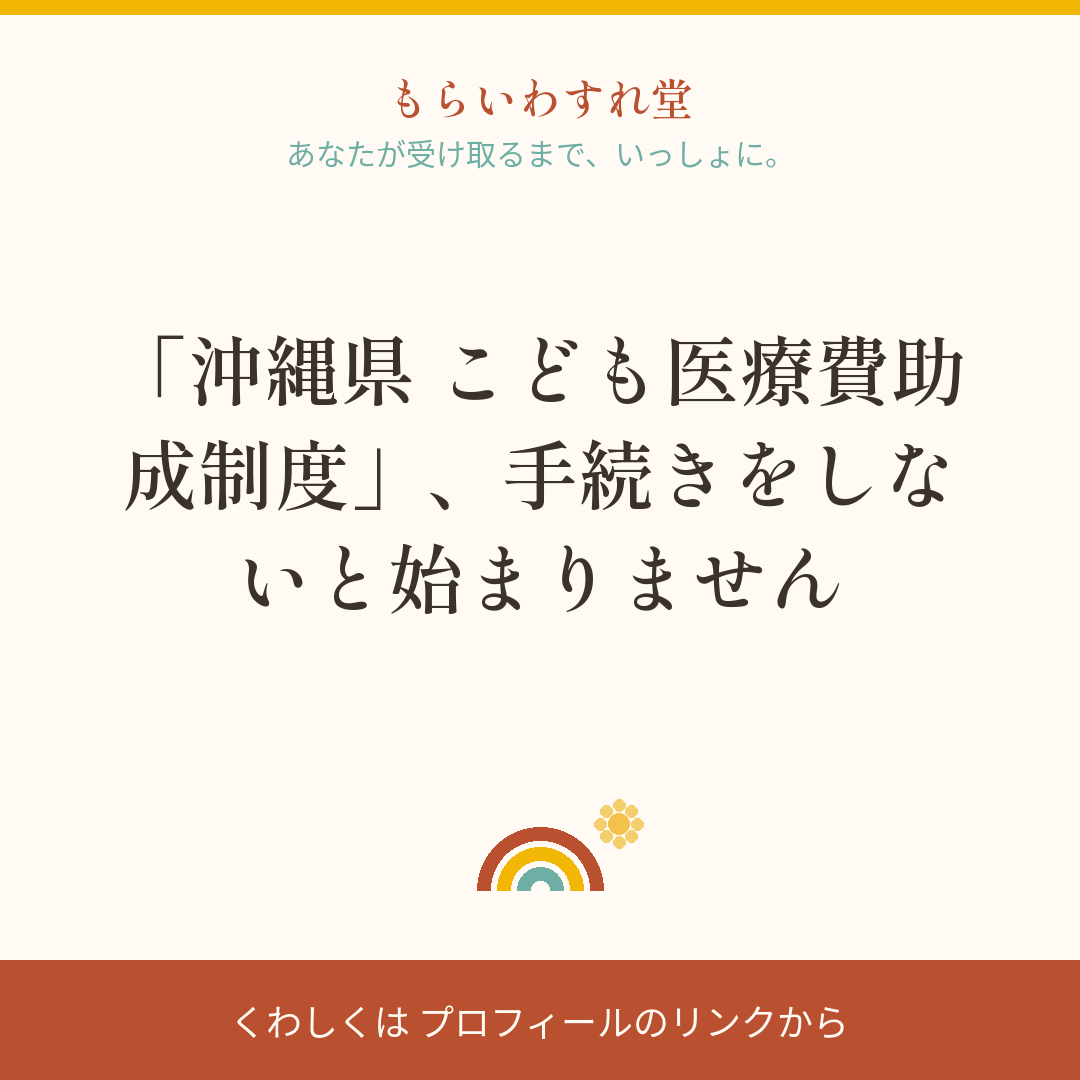
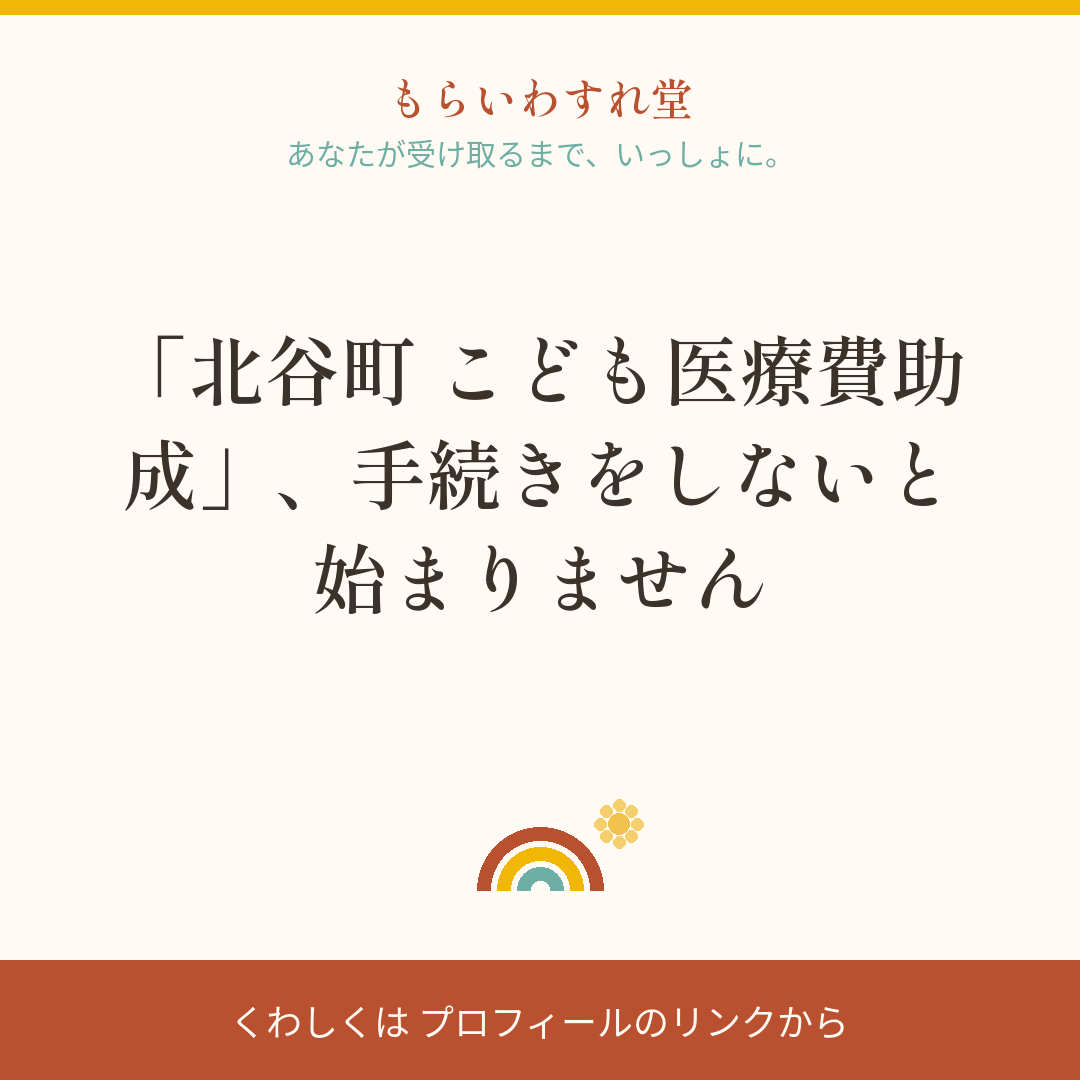
auto: もらいわすれ堂 週次レポート 2026-11-04

Changed region(s): [[0.1833, 0.3056, 0.8861, 0.5806], [0.5194, 0.4889, 0.55, 0.5806]]

diff --git a/site/staff/haruka/index.html b/site/staff/haruka/index.html
@@ -36,7 +36,7 @@ h2{font-size:1.02rem;margin-bottom:10px;line-height:1.5}
 <body>
 <div class="wrap">
 <h1>🌈 今週のIG投稿案(2026-W45)</h1>
-<p class="sub">更新: 2026-11-02 / 毎週月曜に自動更新 / このページは検索に載らない内部ページです</p>
+<p class="sub">更新: 2026-11-04 / 毎週月曜に自動更新 / このページは検索に載らない内部ページです</p>
 <div class="howto"><strong>遥さんの3分ルーティン(投稿画像も完成品です)</strong><br>
 ① 画像を長押しで保存 → ② 「キャプションをコピー」→ ③ Instagramに投稿(画像+キャプション貼り付け)<br>
 ④ 投稿したら、<b>投稿案メールに返信</b>で「案1 投稿した」と一言(使わない案は「案4 なし」)<br><span style="color:#B9502F">※LINEはこちらから送る専用で、返信を受け取れません</span><br>
@@ -45,29 +45,16 @@ h2{font-size:1.02rem;margin-bottom:10px;line-height:1.5}
 
 <div class="card">
   <div class="no">案1</div>
-  <h2>「沖縄県 こども医療費助成制度」、手続きをしないと始まりません</h2>
+  <h2>「北谷町 こども医療費助成」、手続きをしないと始まりません</h2>
   <img class="igimg" src="img/ig1.png" alt="投稿画像 案1">
   <p class="hint">🖼 画像はこのまま使えます: 長押し(PCは右クリック)→保存→Instagramへ</p>
-  <div class="facts ok"><b>✅ 原文と照合ずみです(2026-07-28時点)</b><p>ここに書いてある範囲は、こちらで公式ページと突き合わせています。改めて読み直さずに使っていただいて大丈夫です。<br>ただし<b>「要確認」と書いてある項目だけは断定しないでください</b>(制度はあるが、金額や条件までは詰め切れていない、という意味です)。</p><dl><dt>制度名</dt><dd>沖縄県 こども医療費助成制度</dd><dt>どこの制度か</dt><dd>沖縄県</dd><dt>だれが対象か</dt><dd>県内にお住まいで対象年齢のお子さんがいる世帯が対象となる可能性があります(実施は市町村)</dd><dt>いくら</dt><dd>要確認(公式ページでご確認ください)</dd><dt>どこへ申し込むか</dt><dd>お住まいの市町村の窓口</dd><dt>いつまで</dt><dd>常時</dd></dl></div>
-  <div class="cap" id="cap1">子育て中のご家庭に、知らないままの方が多い制度です。「沖縄県 こども医療費助成制度」。県内にお住まいで対象年齢のお子さんがいる世帯が対象となる可能性があります(実施は市町村)。申し込みの窓口はお住まいの市町村の窓口。金額や細かい条件は年度で変わることがあるので、このページでご確認ください。「うちは対象かな?」と思ったら、まず公式ページを見てみてください。
+  <div class="facts ok"><b>✅ 原文と照合ずみです(2026-08-06時点)</b><p>ここに書いてある範囲は、こちらで公式ページと突き合わせています。改めて読み直さずに使っていただいて大丈夫です。<br>ただし<b>「要確認」と書いてある項目だけは断定しないでください</b>(制度はあるが、金額や条件までは詰め切れていない、という意味です)。</p><dl><dt>制度名</dt><dd>北谷町 こども医療費助成</dd><dt>どこの制度か</dt><dd>北谷町</dd><dt>だれが対象か</dt><dd>北谷町に住み健康保険に加入している18歳(高校生世代)までのお子さんがいる世帯が対象となる可能性があります(令和4年10月〜拡大)</dd><dt>いくら</dt><dd>0歳〜18歳(年度末)までの医療費(保険診療分)を窓口無料(現物給付)で助成(令和4年10月〜。要確認)</dd><dt>どこへ申し込むか</dt><dd>北谷町 健康相談センターの窓口</dd><dt>いつまで</dt><dd>常時</dd></dl></div>
+  <div class="cap" id="cap1">子育て中のご家庭に、知らないままの方が多い制度です。「北谷町 こども医療費助成」。北谷町に住み健康保険に加入している18歳(高校生世代)までのお子さんがいる世帯が対象となる可能性があります(令和4年10月〜拡大)。申し込みの窓口は北谷町 健康相談センターの窓口。金額や細かい条件は年度で変わることがあるので、このページでご確認ください。「うちは対象かな?」と思ったら、まず公式ページを見てみてください。
 
-#もらいわすれ堂 #沖縄 #子育て #沖縄県こども医療費助成制度</div>
+#もらいわすれ堂 #北谷町 #子育て #医療費 #北谷町こども医療費助成</div>
   <button class="copy" data-t="cap1">キャプションをコピー</button>
-  <p class="caution">⚠ 投稿前の注意: 金額・期限・対象条件は本文に書かない(照合日 2026-07-28 時点の記録に基づく案のため)。「対象になることがあります」の言い方を崩さない。制度ID fk-ken-kodomo-iryohi<br>
-  出典: <a href="https://www.pref.okinawa.lg.jp/iryokenko/iryo/1005869/1005890.html" rel="noopener" target="_blank">公式ページを開く</a></p>
-</div>
-<div class="card">
-  <div class="no">案2</div>
-  <h2>「宜野座村 給食費無償化」、使っていますか?</h2>
-  <img class="igimg" src="img/ig2.png" alt="投稿画像 案2">
-  <p class="hint">🖼 画像はこのまま使えます: 長押し(PCは右クリック)→保存→Instagramへ</p>
-  <div class="facts ok"><b>✅ 原文と照合ずみです(2026-08-06時点)</b><p>ここに書いてある範囲は、こちらで公式ページと突き合わせています。改めて読み直さずに使っていただいて大丈夫です。<br>ただし<b>「要確認」と書いてある項目だけは断定しないでください</b>(制度はあるが、金額や条件までは詰め切れていない、という意味です)。</p><dl><dt>制度名</dt><dd>宜野座村 給食費無償化</dd><dt>どこの制度か</dt><dd>宜野座村</dd><dt>だれが対象か</dt><dd>村立の幼稚園・小学校・中学校に通う園児・児童・生徒のご家庭が対象となる可能性があります。</dd><dt>いくら</dt><dd>村立幼稚園・小・中学校の給食費を無償化(令和4年度〜継続)。保育所(園)は主食費のみ補助で副食費等は保護者負担が残る場合があります(要確認)</dd><dt>どこへ申し込むか</dt><dd>宜野座村教育委員会窓口</dd><dt>いつまで</dt><dd>年度内</dd></dl></div>
-  <div class="cap" id="cap2">進学や入園のタイミングで使える制度です。「宜野座村 給食費無償化」。村立の幼稚園・小学校・中学校に通う園児・児童・生徒のご家庭が対象になることがあります。申し込みの窓口は宜野座村教育委員会窓口。金額や細かい条件は年度で変わることがあるので、このページでご確認ください。「うちは対象かな?」と思ったら、まず公式ページを見てみてください。
-
-#もらいわすれ堂 #宜野座村 #入園入学 #子育て #宜野座村給食費無償化</div>
-  <button class="copy" data-t="cap2">キャプションをコピー</button>
-  <p class="caution">⚠ 投稿前の注意: 金額・期限・対象条件は本文に書かない(照合日 2026-08-06 時点の記録に基づく案のため)。「対象になることがあります」の言い方を崩さない。制度ID fk-ginoza-kyushoku<br>
-  出典: <a href="https://www.vill.ginoza.okinawa.jp/soshiki/1009/oshirase/1257.html" rel="noopener" target="_blank">公式ページを開く</a></p>
+  <p class="caution">⚠ 投稿前の注意: 金額・期限・対象条件は本文に書かない(照合日 2026-08-06 時点の記録に基づく案のため)。「対象になることがあります」の言い方を崩さない。制度ID fk-chatan-kodomo-iryo<br>
+  出典: <a href="https://www.chatan.jp/kosodate/kosodate/teate_support/kodomoiryogenbutsu.html" rel="noopener" target="_blank">公式ページを開く</a></p>
 </div>
 <p class="sub">投稿の最終判断は遥さん・小柳さんにお任せします(ここは提案まで)。文面の相談はチャットへいつでもどうぞ。</p>
 </div>

diff --git a/reports/fukugiiro/2026-W45_weekly.md b/reports/fukugiiro/2026-W45_weekly.md
@@ -1,6 +1,6 @@
 # もらいわすれ堂 週次レポート 2026-W45
 
-生成: 2026-11-02 11:59 JST(統括ユイさん・自動生成 / 達成くんフォーマット準拠)
+生成: 2026-11-04 12:26 JST(統括ユイさん・自動生成 / 達成くんフォーマット準拠)
 北極星: **実受給額カウンター**。登録・PVが伸びても、この数字が動かなければ「進んでいない」。
 
 ---
@@ -19,7 +19,7 @@
 
 | 北極星 | 現在地 | 12ヶ月目標 | 必要ペース(週) |
 |---|---|---|---|
-| ❶ サイト訪問 | **2026-11 月3人**(KGIの0.0% / 2026-11-02まで途中集計)/ 直近7日 9人 | 月10,000人 | 約2,308人 |
+| ❶ サイト訪問 | **2026-11 月6人**(KGIの0.1% / 2026-11-04まで途中集計)/ 直近7日 11人 | 月10,000人 | 約2,308人 |
 | ❷ 受給報告 | 0世帯(検証済みのみ) | 1,000件 | 約19件 |
 | ❸ IGフォロワー | 0人(2026-09-21時点) | 1,000人 | 約20人 |
 | ❹ LINE友だち | 計測経路なし(LINE公式のトークン共有待ち。data/kpi/line_followers.json はミカタ用で別物) | 10,000人 | 約192人 |
@@ -35,23 +35,23 @@
 
 ## 2. ファネル(自動取得 — GA4 Data API / 直近7d)
 
-更新: 2026-11-02。集計値のみ(個人識別子なし)。
+更新: 2026-11-04。集計値のみ(個人識別子なし)。
 
 | 段 | 件数 | 前段比 | 離脱率 |
 |---|---|---|---|
-| 診断開始 | 11 | — | — |
-| Q2到達 | 6 | 55% | 45% |
-| Q3到達 | 4 | 67% | 33% |
+| 診断開始 | 13 | — | — |
+| Q2到達 | 5 | 38% | 62% |
+| Q3到達 | 4 | 80% | 20% |
 | Q4到達 | 5 | 125% | -25% |
 | Q5到達 | 5 | 100% | 0% |
-| 診断完了(1件以上) | 3 | 60% | 40% |
-| LINE誘導クリック | 1 | 33% | 67% |
+| 診断完了(1件以上) | 5 | 100% | 0% |
+| LINE誘導クリック | 2 | 40% | 60% |
 
-**最大離脱**: 診断完了(1件以上)→LINE誘導クリック(−67%)← 今週ここが一番落ちている傾向。
+**最大離脱**: 診断開始→Q2到達(−62%)← 今週ここが一番落ちている傾向。
 
-⚠ 診断完了 n=3(<30)のため、転換率の増減で施策効果を断定しない(n≥30到達まで判断保留 — 2026-08-10 三名体制裁定)。
+⚠ 診断完了 n=5(<30)のため、転換率の増減で施策効果を断定しない(n≥30到達まで判断保留 — 2026-08-10 三名体制裁定)。
 
-**診断完了→LINE誘導**: 33%(KPI 30%) / **完了率**: 27% / **0件率**: 0%
+**診断完了→LINE誘導**: 40%(KPI 30%) / **完了率**: 38% / **0件率**: 0%
 
 補助: IGプロフィール→診断 0 / トップの診断CTA 11 / 準備シート 0 / 受給ずみ 0 / 報告ページへ 0(内訳 top0/診断0/シート0/市町村0/ライフ0) / 報告の送信 0 / 0件 0
 
@@ -61,8 +61,8 @@
 |---|---|---|---|
 | 掲載制度数 | 258 件 | 常時150件以上 | ✅ |
 | 検証済み | 111 件(43%) | 誤情報ゼロ | 要確認 147件 |
-| 原文の裏取り | 5 件が内容未確認 | 検証済み表示は全件が原文確認済み | ⚠ 検証済み表示のまま内容を確認できず(2026-11-02 09:13 時点)。docs/フクギイロ_突合レポート.md の要対応欄 |
-| データ鮮度 | 2026-11-02 09:04 | 24時間以内 | ✅ 24時間以内 |
+| 原文の裏取り | 5 件が内容未確認 | 検証済み表示は全件が原文確認済み | ⚠ 検証済み表示のまま内容を確認できず(2026-11-04 10:30 時点)。docs/フクギイロ_突合レポート.md の要対応欄 |
+| データ鮮度 | 2026-11-04 10:21 | 24時間以内 | ✅ 24時間以内 |
 | 自己点検 | 新規NG 0 件 / 既知の負債 0 件 | 新規の違反ゼロ | ✅ 新規の違反なし |
 | 市町村ページ | 41 ページ | 41市町村 | ✅ |
 | 申請準備シート | 258 ページ | 全制度 | ✅ |
@@ -73,16 +73,18 @@
 
 - IGフォロワー数が自動取得できていません(MORADOU_IG_TOKEN 未登録)。プロアカウントならFacebookページ連携は不要です
 - IGフォロワーが0人のままです(2026-09-21時点)。まず関係者にフォローしてもらい、0を抜けてください
-- 議事_20260731_直近決定の三名検証.md の見直し期限(2026-10-31)が2日過ぎています。再議論してください
-- 議事_20260804_相談転換の設計.md の見直し期限まであと2日(2026-11-04)
-- 議事_20260810_北極星ボトルネック裁定.md の見直し期限(2026-09-07)が56日過ぎています。再議論してください
-- 議事_20260817_verify照合判定基準.md の見直し期限まであと4日(2026-11-06)
-- 議事_20260818_沖縄市うるま市一時非公開.md の見直し期限(2026-09-01)が62日過ぎています。再議論してください
-- 議事_20260823_X体験共有解禁と運営実録.md の見直し期限(2026-09-30)が33日過ぎています。再議論してください
-- 議事_20260921_見直し期限切れ6件の再議論.md の見直し期限(2026-09-21)が42日過ぎています。再議論してください
-- 議事_20261004_スキル改善プロジェクト開始.md の見直し期限まであと4日(2026-11-06)
-- 議事_airecipe監査_2026-08-17.md の見直し期限まであと7日(2026-11-09)
-- 議事_note新路線_うごくAIレシピ_2026-08-09.md の見直し期限まであと7日(2026-11-09)
+- 議事_20260731_直近決定の三名検証.md の見直し期限(2026-10-31)が4日過ぎています。再議論してください
+- 議事_20260804_相談転換の設計.md の見直し期限まであと0日(2026-11-04)
+- 議事_20260810_北極星ボトルネック裁定.md の見直し期限(2026-09-07)が58日過ぎています。再議論してください
+- 議事_20260817_verify照合判定基準.md の見直し期限まであと2日(2026-11-06)
+- 議事_20260817_出荷ゲート通過記録.md の見直し期限まであと13日(2026-11-17)
+- 議事_20260818_沖縄市うるま市一時非公開.md の見直し期限(2026-09-01)が64日過ぎています。再議論してください
+- 議事_20260818_開拓効率化アイデア出し.md の見直し期限まであと14日(2026-11-18)
+- 議事_20260823_X体験共有解禁と運営実録.md の見直し期限(2026-09-30)が35日過ぎています。再議論してください
+- 議事_20260921_見直し期限切れ6件の再議論.md の見直し期限(2026-09-21)が44日過ぎています。再議論してください
+- 議事_20261004_スキル改善プロジェクト開始.md の見直し期限まであと2日(2026-11-06)
+- 議事_airecipe監査_2026-08-17.md の見直し期限まであと5日(2026-11-09)
+- 議事_note新路線_うごくAIレシピ_2026-08-09.md の見直し期限まであと5日(2026-11-09)
 
 ## 4. 品質・統制(ニドナシ機構 / eval)
 

diff --git a/reports/fukugiiro/latest.md b/reports/fukugiiro/latest.md
@@ -1,6 +1,6 @@
 # もらいわすれ堂 週次レポート 2026-W45
 
-生成: 2026-11-02 11:59 JST(統括ユイさん・自動生成 / 達成くんフォーマット準拠)
+生成: 2026-11-04 12:26 JST(統括ユイさん・自動生成 / 達成くんフォーマット準拠)
 北極星: **実受給額カウンター**。登録・PVが伸びても、この数字が動かなければ「進んでいない」。
 
 ---
@@ -19,7 +19,7 @@
 
 | 北極星 | 現在地 | 12ヶ月目標 | 必要ペース(週) |
 |---|---|---|---|
-| ❶ サイト訪問 | **2026-11 月3人**(KGIの0.0% / 2026-11-02まで途中集計)/ 直近7日 9人 | 月10,000人 | 約2,308人 |
+| ❶ サイト訪問 | **2026-11 月6人**(KGIの0.1% / 2026-11-04まで途中集計)/ 直近7日 11人 | 月10,000人 | 約2,308人 |
 | ❷ 受給報告 | 0世帯(検証済みのみ) | 1,000件 | 約19件 |
 | ❸ IGフォロワー | 0人(2026-09-21時点) | 1,000人 | 約20人 |
 | ❹ LINE友だち | 計測経路なし(LINE公式のトークン共有待ち。data/kpi/line_followers.json はミカタ用で別物) | 10,000人 | 約192人 |
@@ -35,23 +35,23 @@
 
 ## 2. ファネル(自動取得 — GA4 Data API / 直近7d)
 
-更新: 2026-11-02。集計値のみ(個人識別子なし)。
+更新: 2026-11-04。集計値のみ(個人識別子なし)。
 
 | 段 | 件数 | 前段比 | 離脱率 |
 |---|---|---|---|
-| 診断開始 | 11 | — | — |
-| Q2到達 | 6 | 55% | 45% |
-| Q3到達 | 4 | 67% | 33% |
+| 診断開始 | 13 | — | — |
+| Q2到達 | 5 | 38% | 62% |
+| Q3到達 | 4 | 80% | 20% |
 | Q4到達 | 5 | 125% | -25% |
 | Q5到達 | 5 | 100% | 0% |
-| 診断完了(1件以上) | 3 | 60% | 40% |
-| LINE誘導クリック | 1 | 33% | 67% |
+| 診断完了(1件以上) | 5 | 100% | 0% |
+| LINE誘導クリック | 2 | 40% | 60% |
 
-**最大離脱**: 診断完了(1件以上)→LINE誘導クリック(−67%)← 今週ここが一番落ちている傾向。
+**最大離脱**: 診断開始→Q2到達(−62%)← 今週ここが一番落ちている傾向。
 
-⚠ 診断完了 n=3(<30)のため、転換率の増減で施策効果を断定しない(n≥30到達まで判断保留 — 2026-08-10 三名体制裁定)。
+⚠ 診断完了 n=5(<30)のため、転換率の増減で施策効果を断定しない(n≥30到達まで判断保留 — 2026-08-10 三名体制裁定)。
 
-**診断完了→LINE誘導**: 33%(KPI 30%) / **完了率**: 27% / **0件率**: 0%
+**診断完了→LINE誘導**: 40%(KPI 30%) / **完了率**: 38% / **0件率**: 0%
 
 補助: IGプロフィール→診断 0 / トップの診断CTA 11 / 準備シート 0 / 受給ずみ 0 / 報告ページへ 0(内訳 top0/診断0/シート0/市町村0/ライフ0) / 報告の送信 0 / 0件 0
 
@@ -61,8 +61,8 @@
 |---|---|---|---|
 | 掲載制度数 | 258 件 | 常時150件以上 | ✅ |
 | 検証済み | 111 件(43%) | 誤情報ゼロ | 要確認 147件 |
-| 原文の裏取り | 5 件が内容未確認 | 検証済み表示は全件が原文確認済み | ⚠ 検証済み表示のまま内容を確認できず(2026-11-02 09:13 時点)。docs/フクギイロ_突合レポート.md の要対応欄 |
-| データ鮮度 | 2026-11-02 09:04 | 24時間以内 | ✅ 24時間以内 |
+| 原文の裏取り | 5 件が内容未確認 | 検証済み表示は全件が原文確認済み | ⚠ 検証済み表示のまま内容を確認できず(2026-11-04 10:30 時点)。docs/フクギイロ_突合レポート.md の要対応欄 |
+| データ鮮度 | 2026-11-04 10:21 | 24時間以内 | ✅ 24時間以内 |
 | 自己点検 | 新規NG 0 件 / 既知の負債 0 件 | 新規の違反ゼロ | ✅ 新規の違反なし |
 | 市町村ページ | 41 ページ | 41市町村 | ✅ |
 | 申請準備シート | 258 ページ | 全制度 | ✅ |
@@ -73,16 +73,18 @@
 
 - IGフォロワー数が自動取得できていません(MORADOU_IG_TOKEN 未登録)。プロアカウントならFacebookページ連携は不要です
 - IGフォロワーが0人のままです(2026-09-21時点)。まず関係者にフォローしてもらい、0を抜けてください
-- 議事_20260731_直近決定の三名検証.md の見直し期限(2026-10-31)が2日過ぎています。再議論してください
-- 議事_20260804_相談転換の設計.md の見直し期限まであと2日(2026-11-04)
-- 議事_20260810_北極星ボトルネック裁定.md の見直し期限(2026-09-07)が56日過ぎています。再議論してください
-- 議事_20260817_verify照合判定基準.md の見直し期限まであと4日(2026-11-06)
-- 議事_20260818_沖縄市うるま市一時非公開.md の見直し期限(2026-09-01)が62日過ぎています。再議論してください
-- 議事_20260823_X体験共有解禁と運営実録.md の見直し期限(2026-09-30)が33日過ぎています。再議論してください
-- 議事_20260921_見直し期限切れ6件の再議論.md の見直し期限(2026-09-21)が42日過ぎています。再議論してください
-- 議事_20261004_スキル改善プロジェクト開始.md の見直し期限まであと4日(2026-11-06)
-- 議事_airecipe監査_2026-08-17.md の見直し期限まであと7日(2026-11-09)
-- 議事_note新路線_うごくAIレシピ_2026-08-09.md の見直し期限まであと7日(2026-11-09)
+- 議事_20260731_直近決定の三名検証.md の見直し期限(2026-10-31)が4日過ぎています。再議論してください
+- 議事_20260804_相談転換の設計.md の見直し期限まであと0日(2026-11-04)
+- 議事_20260810_北極星ボトルネック裁定.md の見直し期限(2026-09-07)が58日過ぎています。再議論してください
+- 議事_20260817_verify照合判定基準.md の見直し期限まであと2日(2026-11-06)
+- 議事_20260817_出荷ゲート通過記録.md の見直し期限まであと13日(2026-11-17)
+- 議事_20260818_沖縄市うるま市一時非公開.md の見直し期限(2026-09-01)が64日過ぎています。再議論してください
+- 議事_20260818_開拓効率化アイデア出し.md の見直し期限まであと14日(2026-11-18)
+- 議事_20260823_X体験共有解禁と運営実録.md の見直し期限(2026-09-30)が35日過ぎています。再議論してください
+- 議事_20260921_見直し期限切れ6件の再議論.md の見直し期限(2026-09-21)が44日過ぎています。再議論してください
+- 議事_20261004_スキル改善プロジェクト開始.md の見直し期限まであと2日(2026-11-06)
+- 議事_airecipe監査_2026-08-17.md の見直し期限まであと5日(2026-11-09)
+- 議事_note新路線_うごくAIレシピ_2026-08-09.md の見直し期限まであと5日(2026-11-09)
 
 ## 4. 品質・統制(ニドナシ機構 / eval)
 
